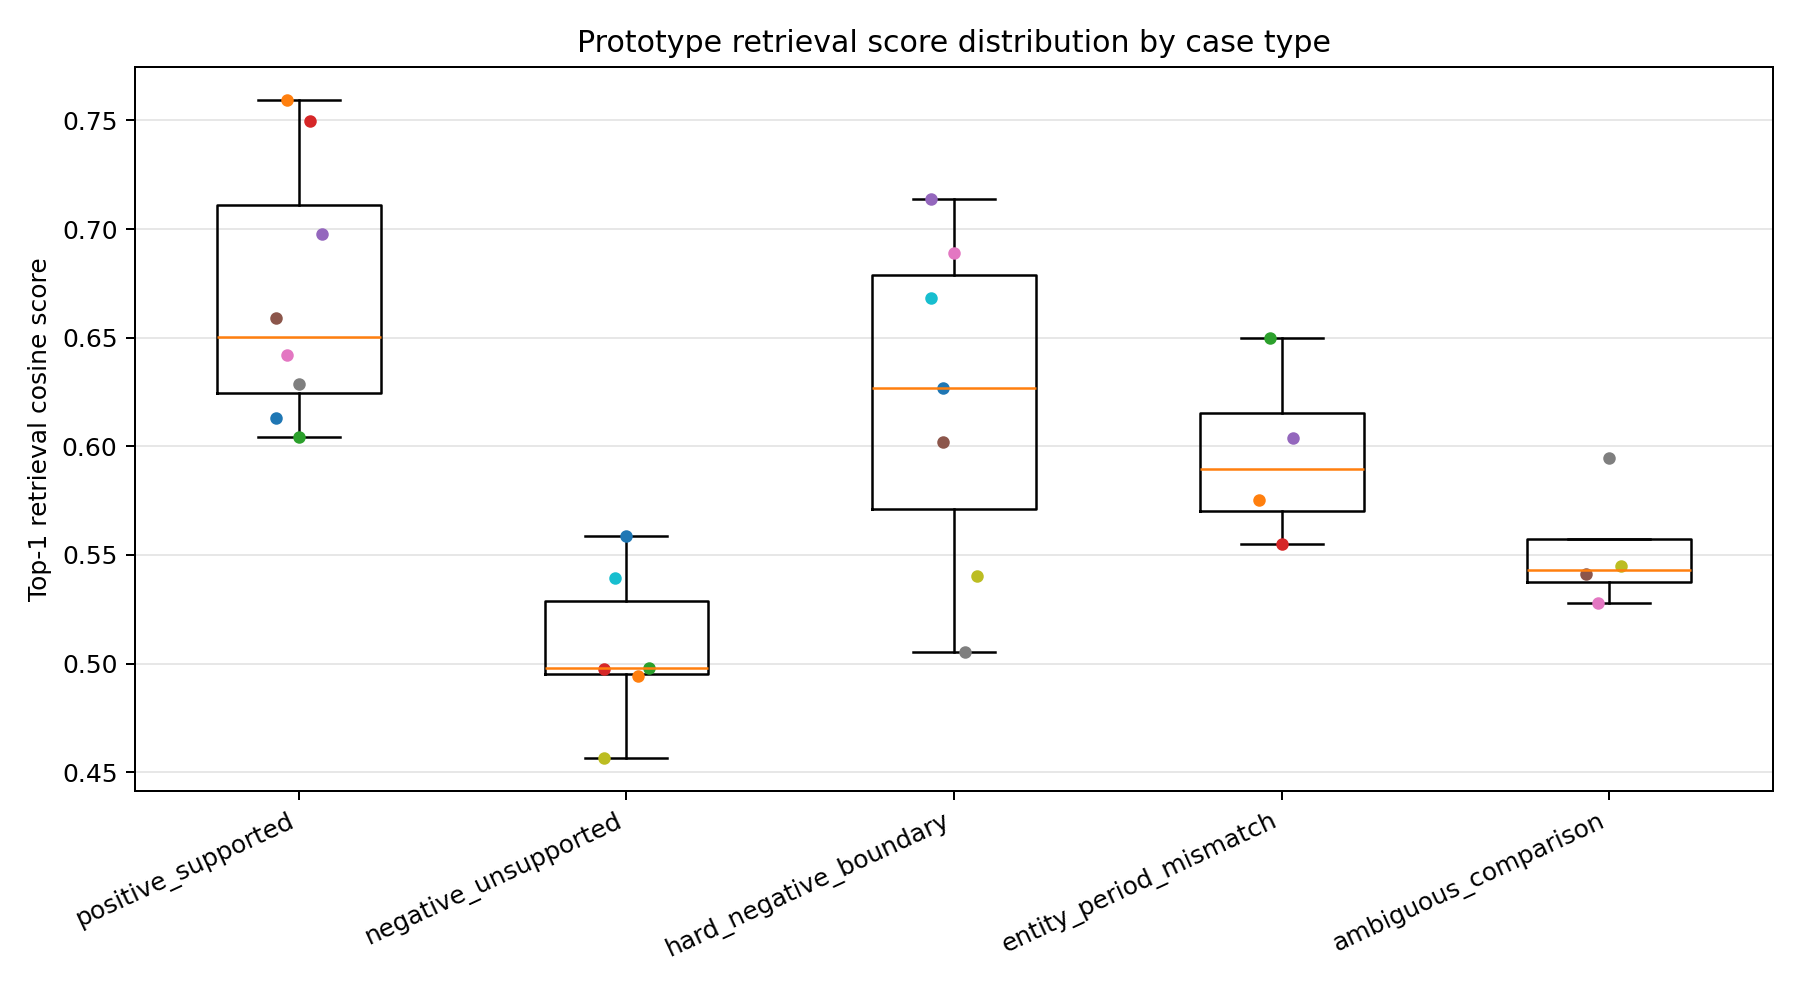
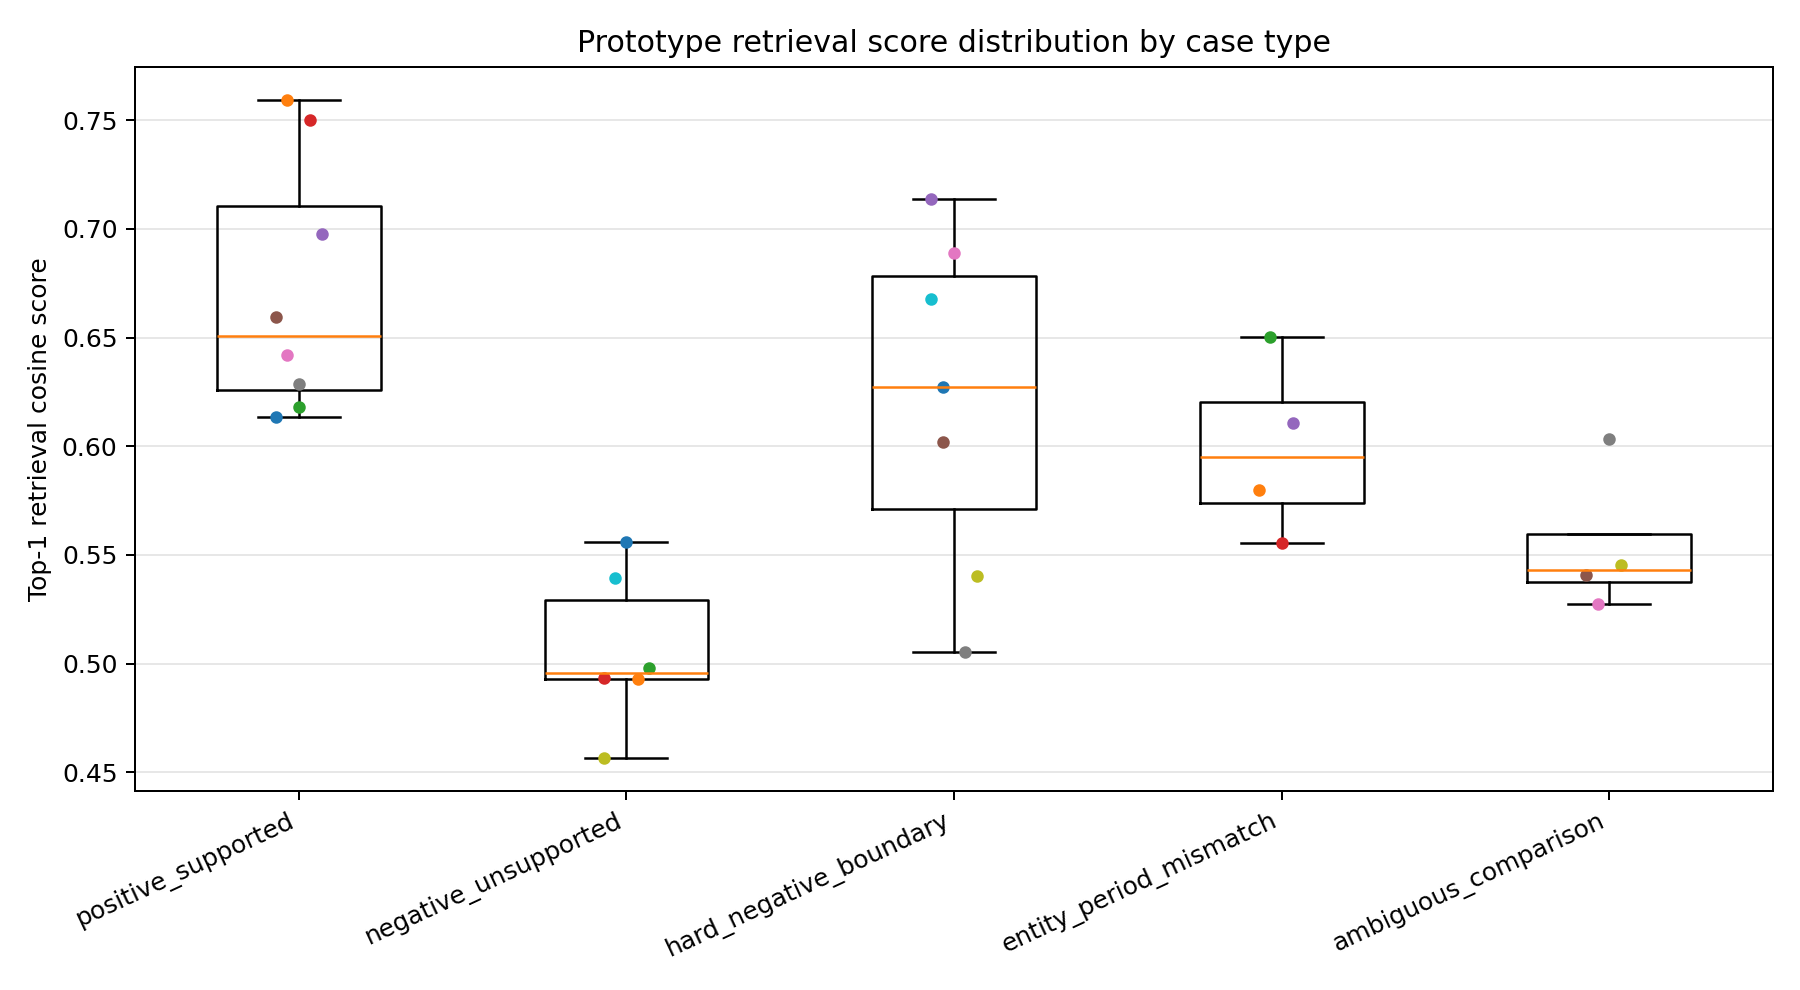
refresh retail retrieval threshold evidence

diff --git a/retail_ops/outputs/retrieval_threshold_summary.md b/retail_ops/outputs/retrieval_threshold_summary.md
@@ -10,12 +10,13 @@ The purpose is to inspect retrieval-threshold behavior. It is not a production-l
 
 ## Corpus
 
-- Retrieval units loaded: 286
+- Retrieval units loaded: 302
 - Unit definition: one generated memory fact or one chunked field-contract/source-note segment; this is not a store count or a count of independent business observations.
[2 lines of base64/hex data omitted]
 - Corpus builder: `eval/retail_retrieval_corpus.py::load_retail_retrieval_documents`
-- Execution commit: `be35bfb8e47ed940f655e31a39c5c6feda6cc37d`
-- Provenance note: the corpus SHA-256 identifies the evidence snapshot; the execution commit identifies the code state used for the run.
+- Run commit: `aacf411db0806485857eb495e3c2abc3ca5eddbc`
[1 lines of base64/hex data omitted]
+- Applicability note: the scope hash identifies the clean experiment-relevant code and input snapshot. The run commit is retained for navigation. Later unrelated commits do not invalidate the result. Run `python3 eval/check_retrieval_result_applicability.py` to check the current scope.
 - Retrieval threshold cases: 29
 - Embedding model: `bge-m3` via local Ollama
 - Generated memory fact sources:
@@ -39,17 +40,17 @@ The purpose is to inspect retrieval-threshold behavior. It is not a production-l
 
 | Case type | Cases | Top-1 min | Top-1 p25 | Top-1 median | Top-1 p75 | Top-1 max | Median margin | Expected hit@5 |
 |---|---:|---:|---:|---:|---:|---:|---:|---:|
-| ambiguous_comparison | 4 | 0.5279 | 0.5377 | 0.5429 | 0.5573 | 0.5945 | 0.0026 | 2/4 |
-| entity_period_mismatch | 4 | 0.5552 | 0.5702 | 0.5896 | 0.6155 | 0.6497 | 0.0068 | 1/4 |
-| hard_negative_boundary | 7 | 0.5054 | 0.5712 | 0.6270 | 0.6787 | 0.7137 | 0.0090 | 5/7 |
-| negative_unsupported | 6 | 0.4566 | 0.4952 | 0.4978 | 0.5290 | 0.5588 | 0.0181 | 0/6 |
-| positive_supported | 8 | 0.6044 | 0.6248 | 0.6506 | 0.7109 | 0.7594 | 0.0344 | 8/8 |
+| ambiguous_comparison | 4 | 0.5275 | 0.5373 | 0.5429 | 0.5597 | 0.6033 | 0.0026 | 3/4 |
+| entity_period_mismatch | 4 | 0.5555 | 0.5738 | 0.5952 | 0.6205 | 0.6504 | 0.0093 | 1/4 |
+| hard_negative_boundary | 7 | 0.5055 | 0.5711 | 0.6271 | 0.6784 | 0.7139 | 0.0085 | 5/7 |
+| negative_unsupported | 6 | 0.4566 | 0.4930 | 0.4957 | 0.5290 | 0.5561 | 0.0112 | 0/6 |
+| positive_supported | 8 | 0.6134 | 0.6261 | 0.6507 | 0.7108 | 0.7593 | 0.0397 | 8/8 |
 
 ## Threshold Interpretation
 
 A reference threshold can be inspected for the trade-off between unsupported retrieval noise and supported evidence retention.
 
-An exploratory reference threshold from this small corpus is around `0.5769`, midway between the positive-supported p25 score `0.6248` and the negative-unsupported p75 score `0.5290`. This is an inspection reference, not a production cutoff or an answer-decision rule.
+An exploratory reference threshold from this small corpus is around `0.5776`, midway between the positive-supported p25 score `0.6261` and the negative-unsupported p75 score `0.5290`. This is an inspection reference, not a production cutoff or an answer-decision rule.
 
 High scores in hard-negative boundary cases are expected. They show that a semantically related fact can be retrieved even when the correct answer should still refuse or qualify the requested conclusion.
 
